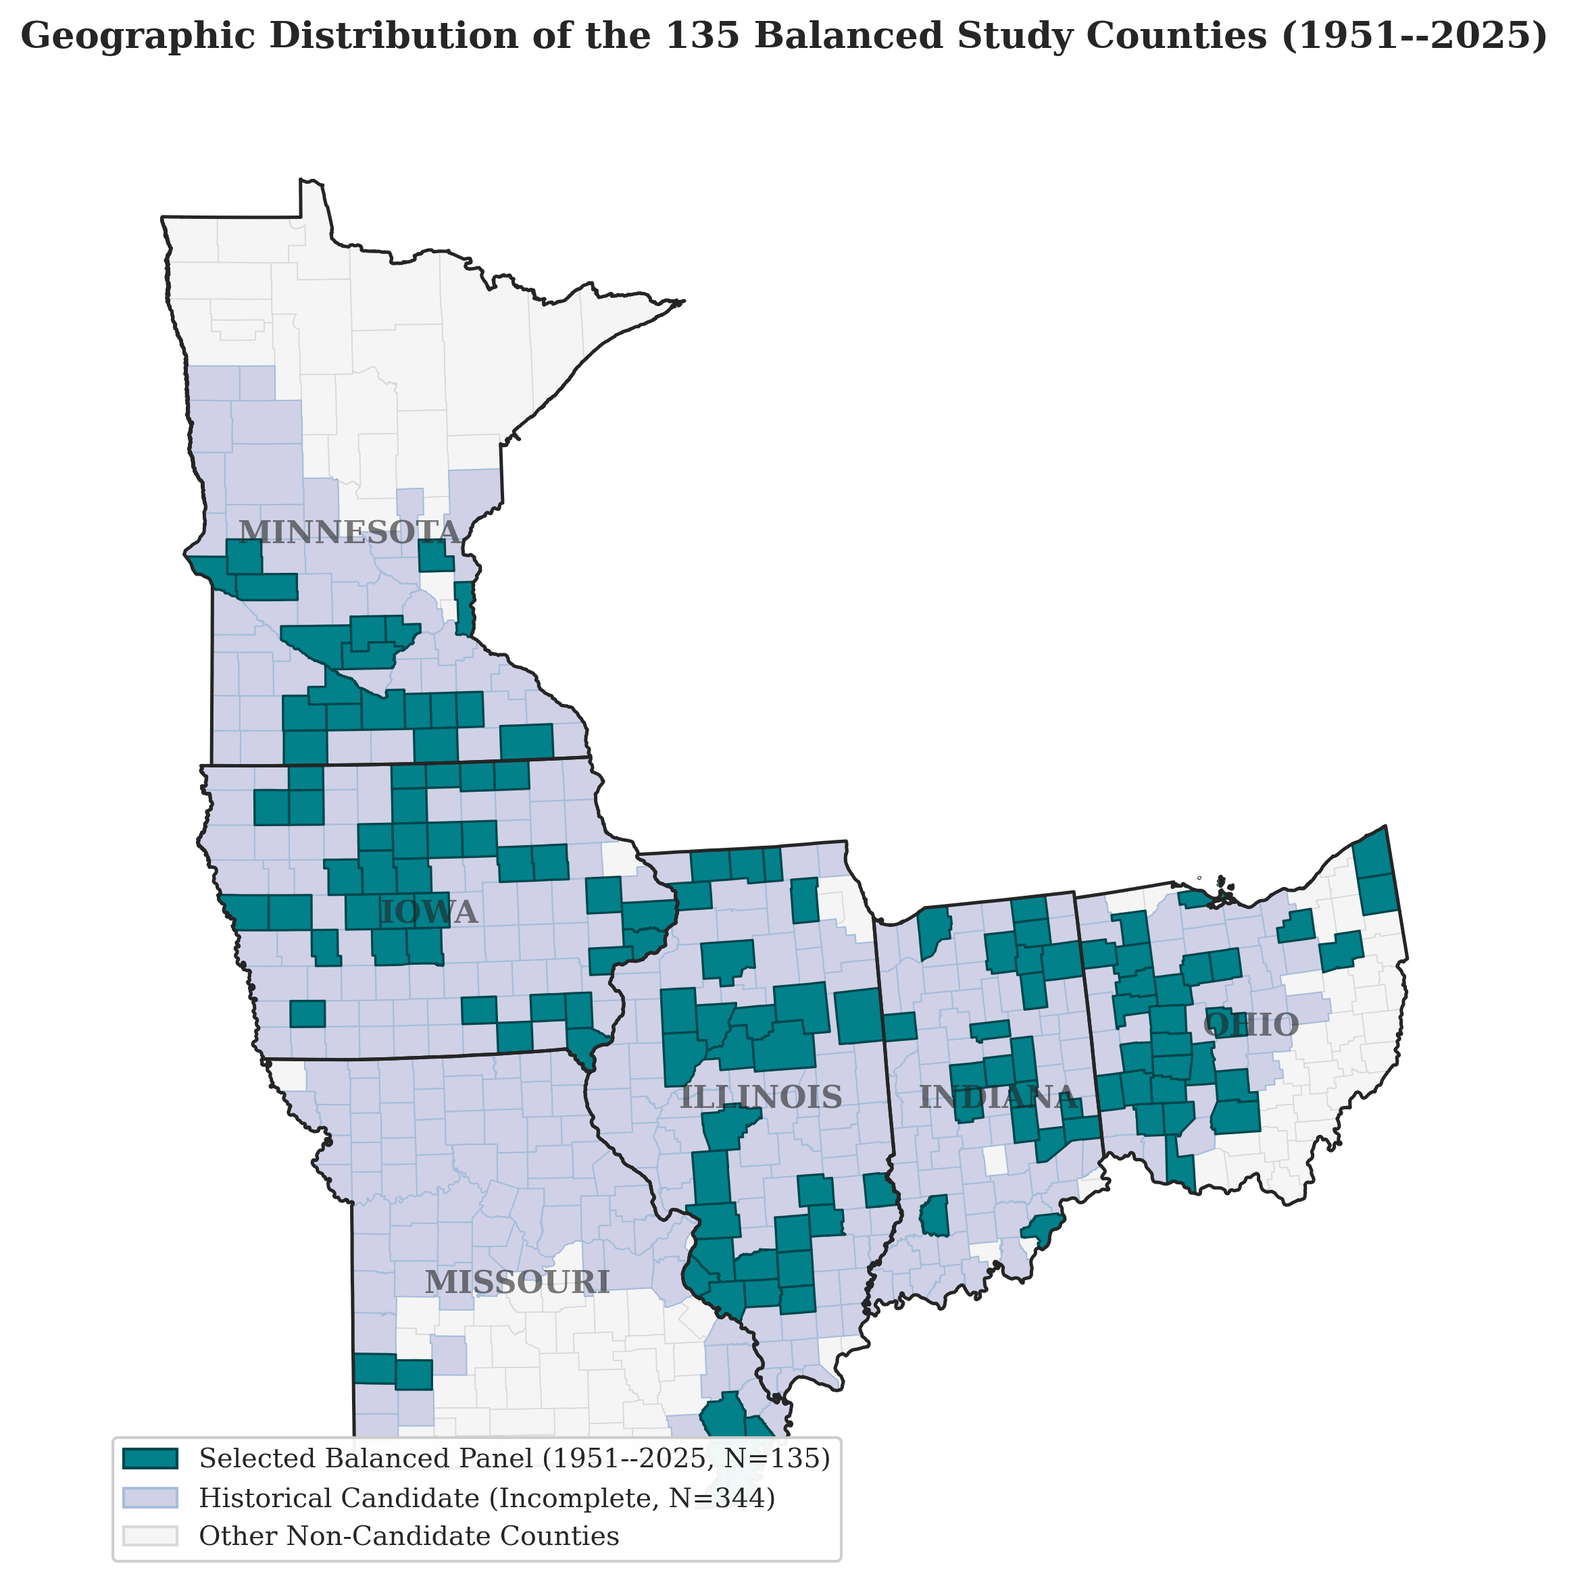
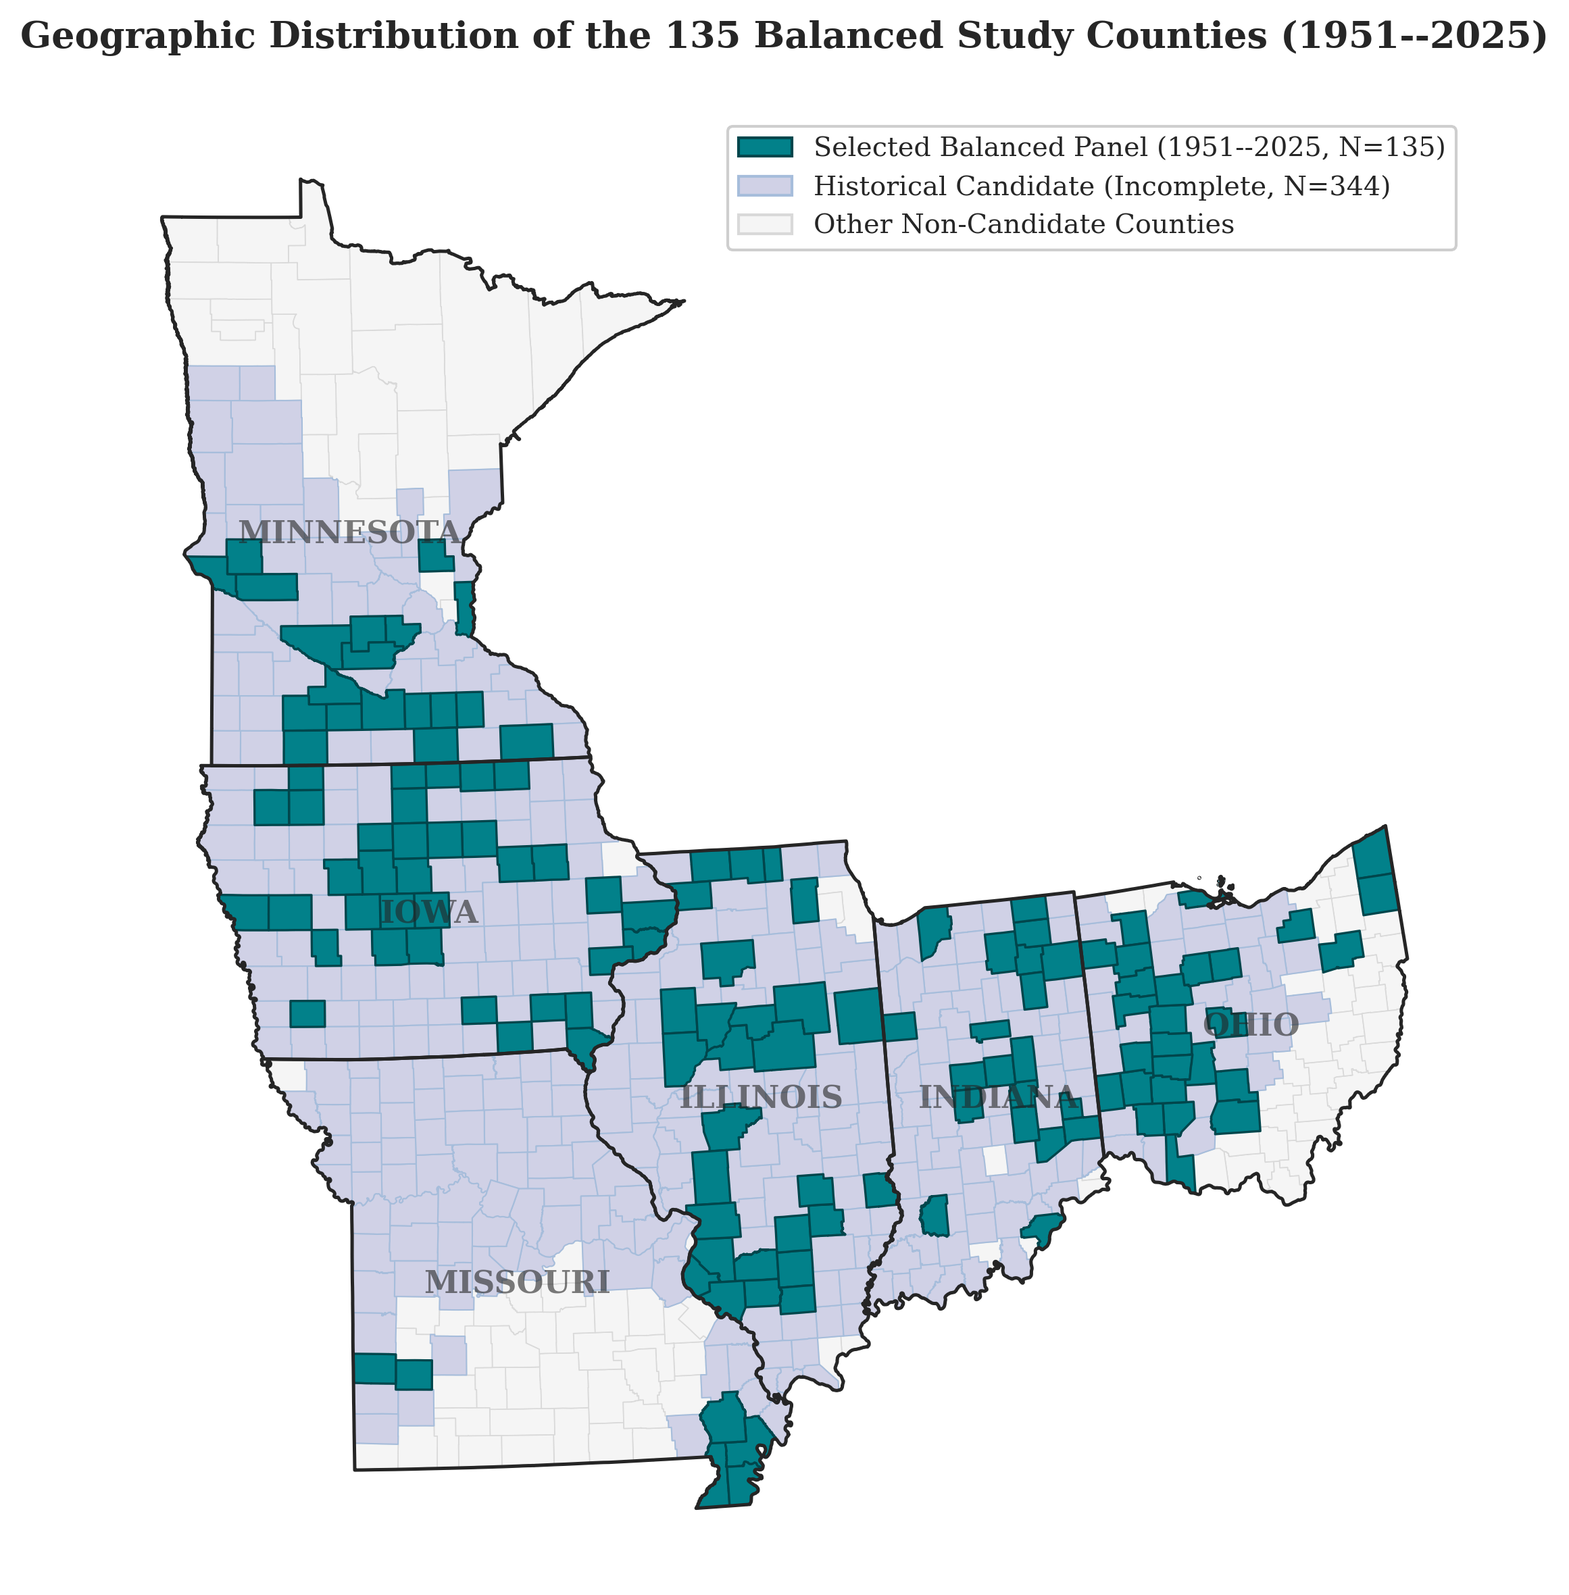
Enhance thesis documentation with detailed chapter protocols and refine introduction content for clarity and focus

Changed region(s): [[0.062, 0.8967, 0.5271, 0.9894], [0.4651, 0.0618, 0.9302, 0.1546]]

diff --git a/output/thesis/chapters/01_introduction.tex b/output/thesis/chapters/01_introduction.tex
@@ -12,14 +12,18 @@ Crucially, this thesis models county-level crop yield anomalies (in bushels per 
 
 From both an applied risk-management perspective and an academic standpoint, a forecast's utility is inseparable from its lead time. In operational trading, procurement, and hedging, an accurate yield estimate delivered immediately prior to harvest provides little managerial flexibility: physical purchasing, storage reservations, and forward pricing have largely concluded. The central intellectual and practical challenge consists in determining \textit{when} atmospheric observations transition from uninformative statistical noise into a reliable, actionable forecasting signal. 
 
-Operationally, an effective yield forecasting system must satisfy three essential requirements: predictive accuracy across the distribution (with dedicated capacity to capture severe downside risks), lead-time earliness to maximize managerial reaction windows, and temporal stability ensuring that early predictive gains persist across subsequent updates rather than reflecting transient sample noise. The decision-making value of these signals evolves across the production cycle: pre-sowing signals ($H \ge 8$) inform acreage allocations and crop rotations; vegetative stage updates ($H \approx 7 \text{ to } 4$) guide producer and merchandiser risk exposure; reproductive pod-filling updates ($H \approx 3 \text{ to } 2$) allow processors and exporters to adjust forward sourcing and logistics; and near-harvest forecasts ($H=1$) optimize terminal bin allocation and intake runtimes. To evaluate this progression systematically, this study anchors the production campaign to an October harvest reference and tracks predictive skill across twelve standardized monthly forecast origins ($H=12, \dots, 1$).
+Operationally, an effective yield forecasting system must satisfy three essential requirements: predictive accuracy across the distribution (with dedicated capacity to capture severe downside risks), lead-time earliness to maximize managerial reaction windows, and temporal stability ensuring that early predictive gains persist across subsequent updates rather than reflecting transient sample noise. The practical utility of these forecasts evolves dynamically across the production calendar, informing decisions for both on-farm operators and downstream supply-chain participants:
+pre-sowing signals ($H \ge 8$) inform seed variety selection, maturity group allocation, and acreage switching between corn and soybean, while guiding commercial forward contracting and input distribution;
+vegetative stage updates ($H \approx 7 \text{ to } 4$) direct in-season farm management (such as replanting decisions, fertilizer split applications, and targeted crop protection) alongside producer price-hedging and merchandiser origination;
+reproductive pod-filling updates ($H \approx 3 \text{ to } 2$) allow farmers to pace forward sales and prepare on-farm storage, while processors and exporters adjust crush runtimes, freight bookings, and secondary sourcing;
+and near-harvest updates ($H=1$) optimize field harvest sequencing, drying logistics, and commercial grain terminal intake schedules. To evaluate this progression systematically, this study anchors the production campaign to an October harvest reference and tracks predictive skill across twelve standardized monthly forecast origins ($H=12, \dots, 1$).
 
-\section{Research Question, Target Formulations, and Baseline Decoupling}
+\section{Research Question and Target Formulations}
 \label{sec:intro_research_question}
 
-A fundamental empirical challenge in agricultural forecasting is that raw county yields are heavily dominated by secular technological progress (seed genetics, fertilizer efficiency, mechanization) and static soil endowments. Consequently, the core empirical question is not simply whether a machine learning model fits historical yields, but how much incremental predictive skill observed weather adds beyond historical information. The empirical design isolates this marginal contribution by benchmarking integrated weather models against reference historical baselines (deterministic trends, county climatology, and admissible past yields) under strictly identical information sets.
+A fundamental empirical challenge in agricultural forecasting is that raw county yields are heavily dominated by secular technological progress (such as seed genetics, fertilizer efficiency, and mechanization). Consequently, predictive models must target yield anomalies rather than raw trends, evaluating how much actionable forecasting skill observed surface weather can provide across successive stages of the crop cycle.
 
-The central research question asks: \textit{At what lead times prior to harvest does observed surface weather add statistically significant and stable out-of-sample predictive skill for county-level soybean yield anomalies beyond historical trend, climatology, and past-yield baselines, and how does this skill vary across model families and temporal aggregations?}
+The central research question asks: \textit{At what lead times prior to harvest does observed surface weather add statistically significant and stable out-of-sample predictive skill for county-level soybean yield anomalies, and how does this skill vary across model families and temporal aggregations?}
 
 To address this question, the empirical modeling evaluates two complementary target formulations:
 \begin{itemize}
@@ -27,24 +31,25 @@ To address this question, the empirical modeling evaluates two complementary tar
     \item \textbf{Categorical Regime Forecasting (Classification):} Complementing continuous regression, a discrete classification framework evaluates whether broad yield regimes (such as severe shortfall, normal, and bumper harvests) can be identified earlier or with greater reliability than precise continuous magnitudes.
 \end{itemize}
 
-The empirical investigation is guided by five primary objectives: isolating incremental weather skill from historical inertia, tracing performance trajectories across horizons ($H=12 \dots 1$), assessing high-frequency temporal summaries (5-day and 10-day vs.\ monthly averages), contrasting model complexities (linear models, tree ensembles, and sequential LSTMs), and testing early regime classification. The formal research hypotheses (H1--H5) addressing these objectives are grounded in the literature and derived in Chapter~\ref{chap:literature_review}.
+The empirical investigation is guided by four primary objectives: mapping the emergence and temporal stability of predictive skill across horizons ($H=12 \dots 1$), identifying the winning combination of model architecture and temporal aggregation (determining whether 5-day or 10-day summaries provide superior predictive value over standard monthly averages), contrasting non-linear tree ensembles and sequential neural networks against regularized linear baselines, and exploring early regime classification. The formal research hypotheses (H1--H5) addressing these objectives are grounded in the literature and derived in Chapter~\ref{chap:literature_review}.
 
 \section{Methodological Contributions and Scope Boundaries}
 \label{sec:intro_contributions}
 
-The literature on crop modeling demonstrates that machine learning can predict county-level soybean yields from environmental data, with the recent multidecadal study by \citet{ChenZhang2026} serving as a primary empirical benchmark. However, existing work leaves open the question of when current observed weather begins to add stable predictive skill beyond historical baselines under progressive, train-only temporal validation.
+The literature on empirical crop modeling encompasses diverse approaches to predicting county-level soybean yields from environmental data. Recent studies have advanced the field from complementary perspectives: \citet{Vijverberg2023} identified pre-sowing climate precursors for extreme yield events; \citet{Yinetal2026} demonstrated the influence of sub-monthly temporal aggregation on modern architectures over recent decades; and the recent multidecadal benchmark by \citet{ChenZhang2026} examined in-season deep learning across monthly growing-season updates.
 
-This thesis addresses this gap through three primary methodological contributions:
+However, existing empirical work has largely examined these dimensions in isolation—focusing on specific phenological phases, selected model classes, or restricted historical intervals. Rather than proposing an isolated model variant, this thesis synthesizes and expands upon these empirical foundations within a unified, comprehensive benchmarking framework.
+
+This thesis addresses this objective through two primary methodological contributions:
 \begin{enumerate}
-    \item \textbf{Systematic Lead-Time Mapping ($H=12, \dots, 1$):} Extending forecasting horizons across twelve standardized monthly cutoffs spanning from the preceding autumn through harvest eve, systematically tracking the emergence and stability of predictive signals.
-    \item \textbf{Rigorous Baseline Decoupling:} Formally isolating the genuine predictive value of observed ERA5-Land weather from technological trends, county climatology, and autoregressive persistence under a strict, train-only expanding-window protocol that eliminates spatial and temporal leakage.
-    \item \textbf{Multi-Granularity and Architectural Comparison:} Systematically evaluating high-frequency temporal summaries (5-day and 10-day vs.\ 30-day aggregations) and derived non-linear agro-climatic indices across regularized linear models, tree ensembles (Random Forest, XGBoost), and recurrent deep learning (LSTM) architectures under identical information constraints.
+    \item \textbf{Systematic 12-Month Lead-Time Mapping Without Forecast Inputs ($H=12, \dots, 1$):} Establishing the empirical boundaries of weather-driven predictability across twelve standardized monthly origins spanning from the preceding autumn through harvest eve. By relying strictly on cumulative observed surface weather from ERA5-Land rather than uncertain dynamical seasonal climate forecasts, the framework tracks precisely when and where historical atmospheric observations begin to generate stable, actionable predictive skill.
+    \item \textbf{Identification of Optimal Model-Aggregation Configurations:} Systematically evaluating multiple model families—regularized linear models, tree ensembles (Random Forest, XGBoost), and recurrent deep learning (LSTM) architectures—across alternative temporal aggregations (5-day, 10-day, and 30-day summaries). This identifies the winning model-aggregation setup and directly establishes whether high-frequency sub-monthly weather summaries provide superior predictive value over standard monthly averages under identical information constraints.
 \end{enumerate}
 
 \paragraph{Scope Boundaries and Methodological Discipline.}
-The proposed evaluation framework is transferable in principle to other weather-sensitive crops and regions. However, the empirical application is subject to clear boundaries: it is intentionally restricted to soybean across 135 balanced counties in six Midwestern states (Illinois, Indiana, Iowa, Minnesota, Missouri, and Ohio) over the 75-year period 1951--2025 (10,125 observations), using surface meteorological fields from ECMWF ERA5-Land. 
+While the evaluation framework is transferable in principle to other crops and regions, this empirical study is deliberately focused on soybean across a balanced panel of 135 counties in six core Midwestern states (Illinois, Indiana, Iowa, Minnesota, Missouri, and Ohio) over the 75-year period 1951--2025 (10,125 county-year observations). This geographic and temporal delimitation provides an uninterrupted, high-density historical record that avoids artificial data imputation.
 
-To maintain academic discipline, this study makes no claim of structural or causal inference: feature relevance is interpreted strictly as empirical predictive association. Furthermore, the retrospective use of finalized reanalysis data and the restriction to a balanced historical panel mean that these models are designed to map the physical limits of weather-driven predictability, rather than claiming immediate real-time operational deployment.
+To maintain academic discipline, feature importance is interpreted strictly as empirical predictive association rather than causal or structural mechanics. Furthermore, because the analysis uses retrospective ERA5-Land reanalysis over a fixed historical panel, the primary objective is to delineate the physical and theoretical limits of weather-driven predictability across lead times, rather than proposing a real-time operational tool for immediate commercial deployment.
 
 \section{Structure of the Thesis}
 \label{sec:intro_structure}

diff --git a/work/reports/exploratory_analysis/generate_chapter3_artifacts.py b/work/reports/exploratory_analysis/generate_chapter3_artifacts.py
@@ -350,7 +350,7 @@ def generate_figure_3_1():
         Patch(facecolor="#d0d1e6", edgecolor="#a6bddb", label="Historical Candidate (Incomplete, N=344)"),
         Patch(facecolor="#f5f5f5", edgecolor="#d9d9d9", label="Other Non-Candidate Counties")
     ]
-    ax.legend(handles=legend_elements, loc="lower left", frameon=True, facecolor="white", edgecolor="#cccccc", framealpha=0.95, fontsize=9.5)
+    ax.legend(handles=legend_elements, loc="upper right", frameon=True, facecolor="white", edgecolor="#cccccc", framealpha=0.95, fontsize=9.5)
     
     ax.set_title("Geographic Distribution of the 135 Balanced Study Counties (1951--2025)", fontsize=13, pad=12, fontweight="bold")
     ax.axis("off")

diff --git a/AGENTS.md b/AGENTS.md
@@ -39,6 +39,21 @@
   directories (`work/thesis_notes/` and `output/docs/decisions.md`), ensuring the thesis
   narrative remains concise, structured, and non-repetitive.
 
+## Thesis writing protocol and chapter scoping
+
+- **Strict Chapter Role Demarcation**:
+  - *Chapter 1 (Introduction)*: High-level motivation, practical supply-chain value, research questions, high-level objectives, academic contributions, and scope boundaries. Never anticipate detailed experimental recipes, equations, or exhaustive model configurations.
+  - *Chapter 2 (Literature Review)*: Critical review of existing agronomic, econometric, and ML literature, theoretical foundations, and formal derivation of hypotheses H1--H5. Focus strictly on what existing literature has established, where methodological fallacies lie (e.g., trend confounding, spatial leakage, lack of parsimonious baselines), and why specific data modalities are excluded. Do not describe internal implementation mechanics or anticipate Chapter 4 pipelines.
+  - *Chapter 3 (Data and Study Area)*: Complete empirical provenance, spatial coverage, descriptive acreage, quality control, reanalysis extraction, and exploratory climate-yield statistics.
+  - *Chapter 4 (Methodology)*: Mathematical and algorithmic formalization of all workflows: 12 standardized horizons, feature engineering, detrending models, baseline specifications, machine learning architectures, and expanding-window temporal validation protocols.
+  - *Chapters 5--7 (Results, Discussion, Conclusions)*: Empirical findings, baseline comparisons, ablations, operational implications, and syntheses.
+- **Academic Defense of Methodological Exclusions**:
+  - Negative constraints (e.g., weather-only, excluding satellites, management records, static soil features, or dynamical climate forecasts) must be justified through rigorous academic rationale in the thesis narrative: ex-post compilation lags, physiological satellite latency ($H \ge 4$), lack of multidecadal county depth, zero temporal variance of static pedology ($\text{Var}(X_{it})=0$), and avoiding confounded dynamical climate model biases.
+- **Text and Table Coordination (No Redundancy)**:
+  - When comparative or diagnostic tables synthesize empirical dimensions (such as benchmark comparisons or hyperparameter grids), surrounding text must provide critical commentary and analytical synthesis rather than repeating tabular metrics verbatim.
+- **Density Over Expansion (Non-Proliferation Rule)**:
+  - Text revisions must maximize conceptual density, clarity, and grammatical cohesion without expanding word or character counts. Avoid slide-like bullet-point lists where fluent, connected academic prose can express the ideas more cohesively.
+
 ## Scientific constraints
 
 - The main design is weather-only: no markets, futures, macroeconomic data, remote

diff --git a/work/thesis_notes/author_working_notes.md b/work/thesis_notes/author_working_notes.md
@@ -11,10 +11,8 @@
 ---
 
 ## 2. Modeling Target Priority (Regression vs. Classification)
-- **Original provisional text (Chap 1):** *"Continuous regression and categorical classification are developed in parallel; the designation of a single primary modeling target will be settled after preliminary empirical experiments."*
-- **Operational decision:** Both targets are formally preserved in the research design as dual complementary pillars:
-  - **Primary Quantitative Target:** Continuous detrended yield anomaly (bushels/acre).
-  - **Decision-Support Target:** Categorical regime classification (e.g. negative shortfall events below the 20th percentile / lower quartile) for supply chain risk alerts.
+- **Status (Chap 1):** Continuous regression is established as the primary empirical backbone, while categorical classification (shortfall, normal, bumper regimes) is retained as an exploratory/complementary framework.
+- **Operational decision (Author Review, Sept 2026):** Keep both in Chapter 1 for now. A final evaluation will be made once full empirical runs are analyzed: if classification provides distinct operational signal, retain it as an ablation/secondary analysis; if redundant, drop or streamline before final thesis delivery.
 
 ---
 
@@ -25,11 +23,11 @@
 ---
 
 ## 4. Methodological Contributions Consolidation
-- **Original list of 11 contributions (Chap 1):** Consolidated into 3 core academic contributions:
-  1. Systematic Lead-Time Horizon Mapping ($H=12, \dots, 1$).
-  2. Rigorous Decoupling of Historical Inertia and Weather Skill.
-  3. Multi-Granularity Temporal and Architectural Comparison.
-- **Good practices moved to Methodology (Chap 4):**
+- **Chapter 1 Streamlining (Author Review, Sept 2026):** Consolidated into 2 core research contributions:
+  1. Systematic 12-Month Lead-Time Mapping Without Forecast Inputs ($H=12, \dots, 1$).
+  2. Identification of Optimal Model-Aggregation Configurations (winning setup across 5-day, 10-day, and 30-day summaries and model families).
+- **Foundational Modeling Hygiene moved strictly to Methodology (Chap 4):**
+  - Baseline decoupling (detrending and historical inertia isolation) is recognized as foundational data-science hygiene, not an independent headline contribution.
   - Expanding-window chronological validation (Hyndman).
   - Strict train-only fitting (detrending, scaling, quantile thresholds).
   - Standard error metrics (RMSE, MAE, ROC-AUC, Brier score).
